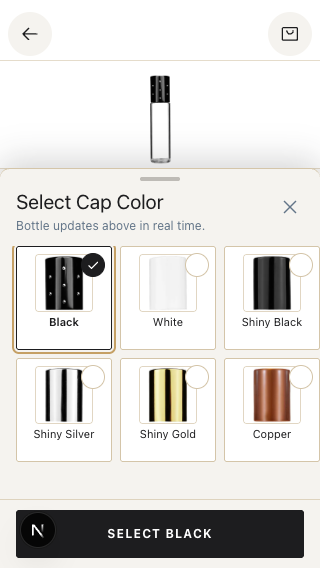
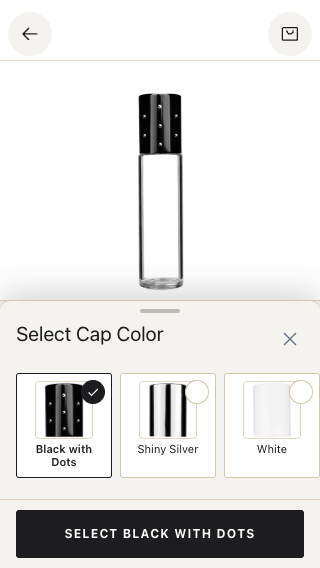
fix(pdp): preserve bottle scale and dotted cap names

diff --git a/tests/decorated-cap-finish.test.ts b/tests/decorated-cap-finish.test.ts
@@ -1,0 +1,37 @@
+import { describe, expect, it } from "vitest";
+import { decoratedCapFinish } from "@/lib/products/decorated-cap-finish";
+import { getCustomerFacingProductName } from "@/lib/products/customer-facing-names";
+import { photoKeysForVariant } from "@/lib/products/closure-swatch-keys";
+
+describe("dotted cap identity", () => {
+    it.each([
+        ["GBCyl9RollBlkDot", "Black"],
+        ["GBCyl9MtlRollSlDot", "Silver"],
+        ["GBCyl9RollPinkDot", "Pink"],
+        ["GBPillar9MtlRollBlkdot", "Black"],
+    ])("preserves the decoration for %s despite sparse cap data", (websiteSku, color) => {
+        const variant = { websiteSku, capColor: "Clear", applicator: "Metal Roller Ball" };
+        expect(decoratedCapFinish(variant)).toBe(`${color} with Dots`);
+        expect(getCustomerFacingProductName({
+            group: { family: "Cylinder", capacityMl: 9, color: "Clear", category: "Glass Bottle" }, variant,
+        }).displayName).toBe(`9 ml Clear Cylinder Roll-On Bottle - ${color} with Dots Cap`);
+    });
+
+    it("distinguishes solid Black and Shiny Black from Black with Dots", () => {
+        expect(decoratedCapFinish({ websiteSku: "GBCyl9RollBlk", capColor: "Black" })).toBeNull();
+        expect(decoratedCapFinish({ websiteSku: "GBCyl9MtlRollShnBlk", capColor: "Clear" })).toBeNull();
+        expect(decoratedCapFinish({ websiteSku: "GBCyl9RollBlkDot", capColor: "Black" })).toBe("Black with Dots");
+    });
+
+    it("recognizes legacy Grace tokens and explicit product descriptions", () => {
+        expect(decoratedCapFinish({ graceSku: "GB-CYL-BLU-5ML-MRL-BKDT" })).toBe("Black with Dots");
+        expect(decoratedCapFinish({ itemName: "Bottle with silver dot cap" })).toBe("Silver with Dots");
+        expect(decoratedCapFinish({ capColor: "Pink with Dots" })).toBe("Pink with Dots");
+    });
+
+    it("retains the existing photo lookup key separately from the customer label", () => {
+        const variant = { websiteSku: "GBCyl9RollBlkDot" };
+        expect(decoratedCapFinish(variant)).toBe("Black with Dots");
+        expect(photoKeysForVariant(variant)).toEqual(["Black"]);
+    });
+});

diff --git a/src/lib/products/decorated-cap-finish.ts b/src/lib/products/decorated-cap-finish.ts
@@ -1,0 +1,22 @@
+type CapEvidence = {
+    websiteSku?: string | null;
+    graceSku?: string | null;
+    capColor?: string | null;
+    itemName?: string | null;
+};
+
+/** Dots identify a distinct cap option, not just its underlying color. */
+export function decoratedCapFinish(variant: CapEvidence): string | null {
+    const colors: Record<string, string> = {
+        black: "Black", blck: "Black", blk: "Black", bkdt: "Black",
+        silver: "Silver", slv: "Silver", sl: "Silver", sldt: "Silver",
+        pink: "Pink", pnk: "Pink", pkdt: "Pink",
+    };
+    const sku = variant.websiteSku?.match(/(Black|Blck|Blk|Pink|Pnk|Slv|Sl)Dot(?:Rng)?$/i)?.[1];
+    const grace = variant.graceSku?.match(/(?:^|-)(BKDT|SLDT|PKDT)(?:-|$)/i)?.[1];
+    const words = `${variant.capColor ?? ""} ${variant.itemName ?? ""}`;
+    const named = words.match(/\b(black|silver|pink)\s+(?:with\s+)?dots?\b/i)?.[1]
+        ?? words.match(/\bdotted\s+(black|silver|pink)\b/i)?.[1];
+    const token = sku ?? grace ?? named;
+    return token ? `${colors[token.toLowerCase()]} with Dots` : null;
+}

diff --git a/src/app/products/[slug]/ProductDetailClient.tsx b/src/app/products/[slug]/ProductDetailClient.tsx
@@ -19,6 +19,7 @@ import { useGrace } from "@/components/useGrace";
 import { APPLICATOR_BUCKETS, APPLICATOR_NAV, type ApplicatorNavValue } from "@/lib/catalogFilters";
 import { buildCapOptionPhotoKeys } from "@/lib/products/closure-swatch-keys";
 import { reconcilePdpEditorialDescriptions } from "@/lib/products/pdp-editorial-description";
+import { decoratedCapFinish } from "@/lib/products/decorated-cap-finish";
 import {
     PdpInlineBadges,
     PdpInlinePromo,
@@ -242,6 +243,8 @@ function getAntiqueBulbVisualIdentity(v: ProductVariant): { label: string; swatc
 
 /** Resolved cap finish for PDP selectors — must match variantSwatchPreview so sparse capColor rows still appear. */
 function resolveVariantCapFinish(v: ProductVariant): { label: string; swatchName: string } {
+    const decorated = decoratedCapFinish(v);
+    if (decorated) return { label: decorated, swatchName: decorated };
     if (isAntiqueBulbVariant(v)) {
         const bulbIdentity = getAntiqueBulbVisualIdentity(v);
         if (bulbIdentity) return bulbIdentity;

diff --git a/src/app/globals.css b/src/app/globals.css
@@ -105,13 +105,16 @@ body {
   }
 }
 
-/* Short phones need room for both option rows and the confirmation button.
-   Keep a smaller live bottle preview above the sheet while it is open. */
+/* Keep the bottle at its normal scale on short phones. A single finish row
+   leaves room for readable labels and confirmation without shrinking it. */
 @media (max-width: 767px) and (max-height: 700px) {
-  main[data-mobile-picker-open] {
-    --mobile-pdp-stage-width: min(100%, calc(max(80px, calc(100svh - 461px - env(safe-area-inset-bottom, 0px))) * 10 / 11));
-  }
   main[data-mobile-picker-open] [data-mobile-pdp-viewer-entry] {
+    display: none;
+  }
+  [data-mobile-option-sheet] [data-picker-layout="grid"] {
+    grid-template-rows: repeat(1, minmax(0, 1fr));
+  }
+  [data-mobile-picker-hint] {
     display: none;
   }
 }

diff --git a/src/components/products/mobile/MobileProductHero.tsx b/src/components/products/mobile/MobileProductHero.tsx
@@ -90,7 +90,7 @@ const MobileProductHero = forwardRef<HTMLDivElement, MobileProductHeroProps>(fun
             <div
                 data-testid="mobile-pdp-stage"
                 className="relative mx-auto overflow-hidden"
-                style={{ aspectRatio: "10 / 11", width: "var(--mobile-pdp-stage-width, min(100%, calc(42svh * 10 / 11)))" }}
+                style={{ aspectRatio: "10 / 11", width: "min(100%, calc(42svh * 10 / 11))" }}
             >
                 {hasStack ? (
                     <PaperDollLayers plateUrl={plateUrl} kitParts={kitParts} alt={alt} onPlateError={onPlateError} />

diff --git a/src/lib/products/customer-facing-names.ts b/src/lib/products/customer-facing-names.ts
@@ -1,3 +1,5 @@
+import { decoratedCapFinish } from "./decorated-cap-finish";
+
 export type CustomerFacingNameConfidence = "high" | "medium" | "fallback";
 
 export type CustomerFacingNameGroupInput = {
@@ -249,6 +251,7 @@ function usableFinish(value: string | null | undefined): string | null {
 function resolveFinish(variant?: CustomerFacingNameVariantInput | null): string | null {
     if (!variant) return null;
     return (
+        decoratedCapFinish(variant) ??
         usableFinish(variant.capColor) ??
         usableFinish(variant.trimColor) ??
         finishFromGraceSku(variant.graceSku) ??

diff --git a/src/components/products/mobile/ProductOptionSheet.tsx b/src/components/products/mobile/ProductOptionSheet.tsx
@@ -150,7 +150,7 @@ export default function ProductOptionSheet({
                                     {title}
                                 </Dialog.Title>
                                 {hint ? (
-                                    <Dialog.Description id={hintId} className="mt-1 text-xs text-slate">
+                                    <Dialog.Description id={hintId} data-mobile-picker-hint="" className="mt-1 text-xs text-slate">
                                         {hint}
                                     </Dialog.Description>
                                 ) : null}

diff --git a/docs/reviews/2026-09-04-mobile-pdp-verification.md b/docs/reviews/2026-09-04-mobile-pdp-verification.md
@@ -69,7 +69,7 @@ The repair branch starts at the exact PR #89 head above. It is a separate contin
 - Optional Grace-memory failures return an unavailable state instead of unmounting the storefront.
 - Mobile and desktop specifications, plus new cart lines, use the same resolved cap finish as the selector. Shared catalog rows are not modified.
 - Editorial rich descriptions now use the existing applicator-consistency check. Incompatible text uses a compatible canonical product description, or is omitted if none exists. The stale source is Sanity document `productGroupContent-cylinder-9ml-clear-17-415-rollon`, block `desc-cylinder-9ml-clear-1`. That shared document is unchanged.
-- While a picker is open on a screen at most 700 px tall, the bottle preview contracts to leave usable space for the option cards and confirmation button. Closing restores the ordinary hero.
+- On screens at most 700 px tall, the cap picker uses one horizontally scrolling row. The bottle keeps exactly its normal scale; the View Larger entry is temporarily hidden while the picker is open.
 - The desktop quantity input is constrained to 48 px and purchase controls can wrap, resolving the 768 px overflow.
 - An inactive, branch-level preview-build opt-in accepts only preview-scoped Convex keys. This repair preview uses the existing backend; the opt-in is not enabled and no new deploy credential is issued.
 
@@ -77,7 +77,7 @@ The repair branch starts at the exact PR #89 head above. It is a separate contin
 
 - 62 tests pass, including the existing mobile/purchase checks, actual Convex-hook failure recovery, editorial conflict cases, and preview-build guards.
 - TypeScript and changed-file ESLint pass; `git diff --check` passes.
-- At 320 × 568, the cap sheet is y=168–568 (400 px tall); both option rows fit at y=246–470, with the confirmation button visible. The original sheet was only 208 px tall.
+- After the scale correction, at 320 × 568 the bottle stage is 216.86 × 238.53 px both before and after opening. The sheet is y=300–568, and its complete single row is y=373–486.5 with the confirmation button visible. This supersedes the earlier compressed-bottle/two-row repair.
 - Document width matches viewport at 320, 390, 430, and 768 px. The corrected tablet quantity input measures 48 px.
 - Pointer selection of Shiny Gold works, and Specifications displays Shiny Gold. The visible roll-on editorial copy no longer says it is built for fine mist sprayers.
 - Selecting Metal Roller preserves Shiny Gold and resolves `GBCyl9MtlRollShnGl`, $0.72. A 12-unit cart addition totals $8.64. No checkout or order is submitted.
@@ -88,3 +88,9 @@ The repair branch starts at the exact PR #89 head above. It is a separate contin
 - Complete checkout handoff and confirm production catalog/pricing parity.
 - Verify Grace voice/chat and memory on a backend that contains the matching functions. Grace memory remains optional and unavailable on the existing test backend.
 - The existing shared Sanity record still contains stale sprayer copy; the repair renders compatible catalog copy instead. An editorial source correction can be reviewed separately.
+
+### Cap naming and image-scale follow-up
+
+- Preserve dotted cap identity from website SKU, legacy Grace token, or explicit cap wording. Black with Dots, Silver with Dots, and Pink with Dots remain distinct from solid/shiny finishes.
+- Use the shared dotted identity in product titles and the PDP finish resolver, which supplies configuration rows, specifications, and new cart lines. Keep the existing component-photo lookup vocabulary separate.
+- Optimized build and 72 focused tests passed, covering naming, SKU/photo mappings, mobile models, and purchase controls. Small-screen pointer opening confirms the image does not shrink; all ten finish options remain accessible by horizontal scrolling.
